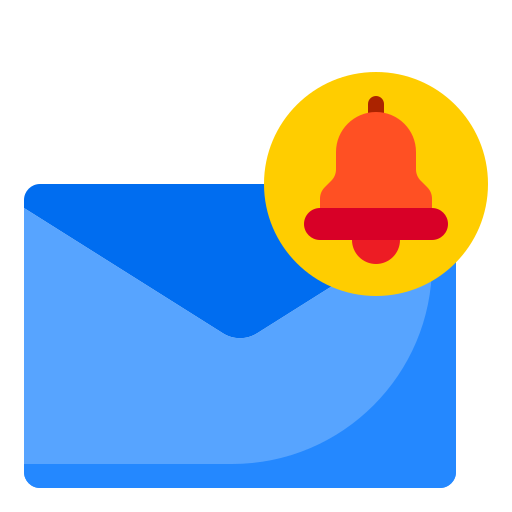
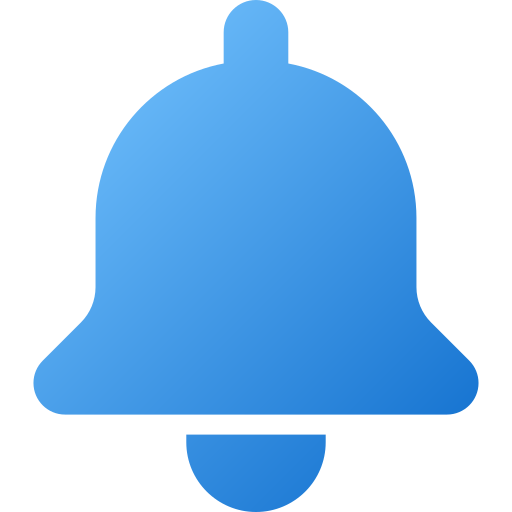
.

diff --git a/SupervisorMobility.Client/wwwroot/css/notificationStyle.css b/SupervisorMobility.Client/wwwroot/css/notificationStyle.css
@@ -1,22 +1,30 @@
 .card {
-    --primary-clr: #1C204B;
+    transition: 0.2s cubic-bezier(0.25, 0.46, 0.45, 0.94);
+    --primary-clr: #fff;
     --dot-clr: #BBC0FF;
     --play: hsl(195, 74%, 62%);
-    width: 200px;
-    height: 170px;
+    max-height: 200px;
     border-radius: 10px;
 }
 
 .card {
     font-family: "Arial";
-    color: #fff;
+    color: #000000;
     display: grid;
     cursor: pointer;
     grid-template-rows: 50px 1fr;
 }
 
     .card:hover .img-section {
-        transform: translateY(1em);
+        transform: translateY(3em);
+    }
+
+    .card:hover{
+        transform: translateY(-3.2em);
+    }
+
+    .card:hover .foot-section {
+        transform: translateY(8.5em);
     }
 
 .card-desc {
@@ -25,8 +33,9 @@
     position: relative;
     top: -10px;
     display: grid;
-    gap: 10px;
+    gap: 20px;
     background: var(--primary-clr);
+    z-index: 2;
 }
 
 .card-time {
@@ -38,7 +47,36 @@
     transition: 0.2s cubic-bezier(0.25, 0.46, 0.45, 0.94);
     border-top-left-radius: 10px;
     border-top-right-radius: 10px;
-    background: hsl(195, 74%, 62%);
+    background: hsl(195, 74%, 87%);
+    flex-direction: row-reverse !important;
+}
+
+.foot-section {
+    position: relative;
+    top: -130px;
+    display: grid;
+    transition: 0.2s cubic-bezier(.25, 0.46, 0.45, 0.94);
+    border-bottom-left-radius: 10px;
+    border-bottom-right-radius: 10px;
+    z-index: 1;
+    background: hsl(195, 74%, 87%);
+}
+.lock-notify {
+    display: flex;
+    flex-wrap: nowrap;
+    justify-content: center;
+    align-items: center;
+    align-content: center;
+    flex-direction: column;
+}
+
+.card:hover .icon-unlock-notify,
+.card .icon-lock-notify {
+    display: none;
+}
+
+.card:hover .icon-lock-notify {
+    display: inline;
 }
 
 .card-header {

diff --git a/SupervisorMobility.Client/wwwroot/index.html b/SupervisorMobility.Client/wwwroot/index.html
@@ -61,18 +61,7 @@
         }
     </script>
 
-    <script>
-        function resetSwitches(switchNumber) {
-            var switches = document.querySelectorAll('.mud-switch');
-            for (var i = 0; i < switches.length; i++) {
-                var switchElement = switches[i];
-                var switchInput = switchElement.querySelector('input[type="checkbox"]');
-                if (switchInput && switchInput.value != switchNumber) {
-                    switchInput.checked = false;
-                }
-            }
-        }
-    </script>
+    
     <script type="module">
         import * as msal from "https://unpkg.com/@azure/msal-browser@2.18.0/dist/msal-browser.es.js";
         window.msal = msal;